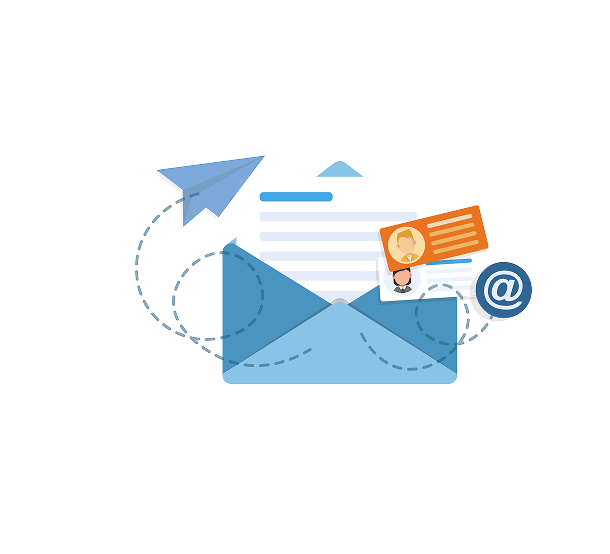
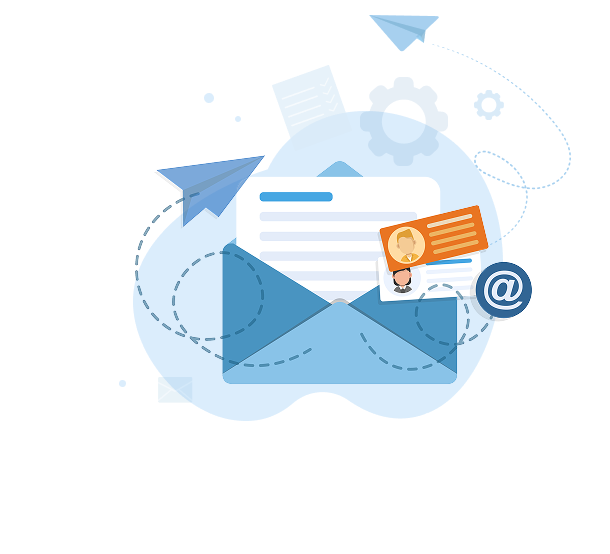
v4

diff --git a/index.html b/index.html
@@ -962,7 +962,7 @@
     </section>
   </footer>
 
-  <a href="#" id="scroll-top" class="btn btn--orange btn--small-radius w-70px h-70px flex items-center content-center pos-fix p-0 right-20rem bottom-6rem" style="opacity: 0;">
+  <a href="#" id="scroll-top" class="btn btn--orange btn--small-radius w-70px h-70px flex items-center content-center pos-fix p-0 bottom-6%" style="opacity: 0;">
     <svg width="30" height="41" viewBox="0 0 30 41" fill="none" xmlns="http://www.w3.org/2000/svg">
       <path
         d="M12.7285 38.9805C12.7285 40.085 13.6239 40.9805 14.7285 40.9805C15.8331 40.9805 16.7285 40.085 16.7285 38.9805H12.7285ZM16.1427 0.585121C15.3617 -0.195927 14.0954 -0.195927 13.3143 0.585121L0.58638 13.313C-0.194669 14.0941 -0.194669 15.3604 0.58638 16.1415C1.36743 16.9225 2.63376 16.9225 3.41481 16.1415L14.7285 4.82776L26.0422 16.1415C26.8233 16.9225 28.0896 16.9225 28.8707 16.1415C29.6517 15.3604 29.6517 14.0941 28.8707 13.313L16.1427 0.585121ZM16.7285 38.9805L16.7285 1.99934H12.7285L12.7285 38.9805H16.7285Z"

diff --git a/src/styles/blocks/_btn.scss b/src/styles/blocks/_btn.scss
@@ -83,3 +83,11 @@
     }
   }
 }
+
+#scroll-top {
+  right: 15%;
+
+  @include vp-1024 {
+    right: 10%;
+  }
+}
